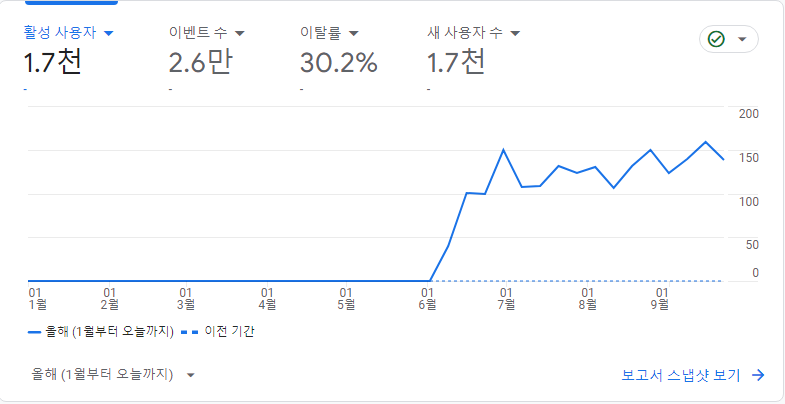
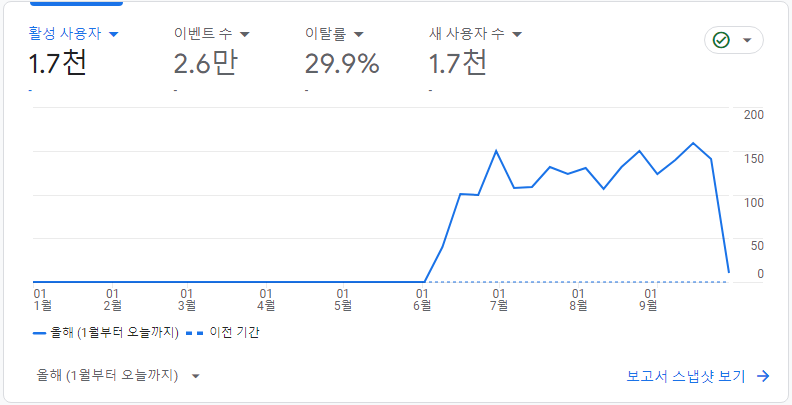
chore: joahair 성과 사진 변경

diff --git a/src/app/(menu)/projects/(projects)/joahair/page.tsx b/src/app/(menu)/projects/(projects)/joahair/page.tsx
@@ -162,7 +162,7 @@ export default function Page() {
               <div className={styles['description']}>
                 <p>
                   사용자 분석 및 사용자 피드백을 바탕으로 성능 최적화, 애니메이션 효과, 반응형 등을
-                  통한 UI/UX 최적화를 통해 고유 방문자 수 1700+명, 이탈률 30.2%(Google Analytics),
+                  통한 UI/UX 최적화를 통해 고유 방문자 수 1700+명, 이탈률 29.9%(Google Analytics),
                   검색엔진 노출 4600+번(Google Search Console) 등의 성과를 달성했습니다.
                 </p>
               </div>
